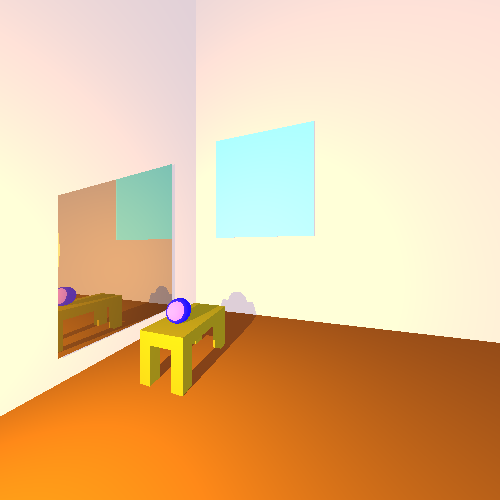
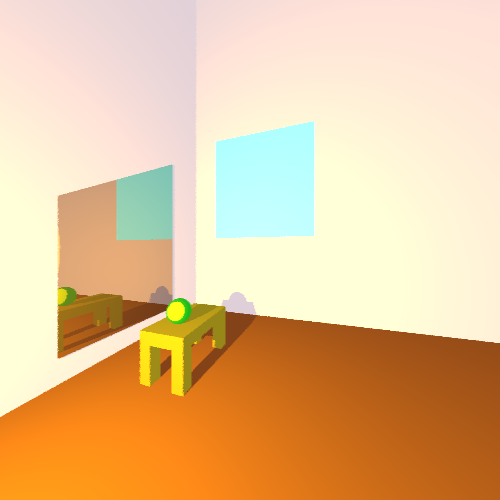
finish anti aliasyng

diff --git a/src/renderer/Camera.java b/src/renderer/Camera.java
@@ -218,13 +218,18 @@ public class Camera {
         int nY = imageWriter.getNy();
         for (int i = 0; i < nY; i++) {
             for (int j = 0; j < nX; j++) {
-               imageWriter.writePixel(j,i,this.castRay(nX, nY, i, j));
-                constructRays(nX, nY, i, j);
+               imageWriter.writePixel(j,i,this.castRaySelector(nX, nY, i, j));
             }
         }
         return this;
     }
 
+    private Color castRaySelector(int nX, int nY, int i, int j){
+        if(amountRays==1)
+            return castRay(nX, nY, i, j);
+        //amountRays is bigger than 1
+        return castRays(nX,nY,i,j);
+    }
     /**
      * Casts a ray for the specified pixel and traces it to determine the pixel color.
      *
@@ -235,9 +240,20 @@ public class Camera {
      */
     private Color castRay(int nX, int nY, int i, int j) {
         Ray ray = constructRay(nX, nY, j, i);
-        Color pixelColor = rayTracer.traceRay(ray);
-        return pixelColor;
-        //imageWriter.writePixel(j, i, pixelColor);
+        return rayTracer.traceRay(ray);
+    }
+
+    /**
+     * Casts rays for the specified pixel and traces it to determine the pixel color by amountRays*amountRays.
+     *
+     * @param nX the number of pixels along the x-axis
+     * @param nY the number of pixels along the y-axis
+     * @param i  the y-coordinate of the pixel
+     * @param j  the x-coordinate of the pixel
+     */
+    private Color castRays(int nX, int nY, int i, int j) {
+        List<Ray> rays = constructRays(nX, nY, j, i);
+        return rayTracer.traceRays(rays);
     }
 
     /**
@@ -278,7 +294,7 @@ public class Camera {
         Point pIJCenter = p0.add(Vto.scale(distance)); // = P center
         double rY = this.height / nY; //rY is the size of the vertical rib of the pixel (without the horizontal rib)
         double rX = this.width / nX; //rX is the size of the horizontal rib of the pixel (without teh vertical rib)
-        double xJ = (j - (double)(nX - 1)/2) * rX; //xJ is the horizontal distance of our pixel from the central pixel (in pixels)
+        double xJ = -(j - (double)(nX - 1)/2) * rX; //xJ is the horizontal distance of our pixel from the central pixel (in pixels)
         double yI = -(i - (double)(nY - 1)/2) * rY; //yI is the vertical distance of our pixel from the central pixel (in pixels)
         if (xJ != 0) pIJCenter = pIJCenter.add(Vright.scale(xJ));
         if (yI != 0) pIJCenter = pIJCenter.add(Vup.scale(yI));
@@ -318,38 +334,6 @@ public class Camera {
         return avarageColor;
     }
 
-//    private Color antiAliasingRandom(int nX, int nY, int j, int i) {
-//        Color sumColors = new Color(0,0,0);
-//        Vector vectorToThePixel;
-//        Ray rayThroughPixel;
-//        //get the center of the pixel
-//        Point pIJCenter = getCenterPixel( nX,  nY,  j,  i);
-//
-//        // make the top-left corner of the pixel
-//        Point pIJ;
-//        double rX = this.width / nX; //rX is the size of the horizontal rib of the pixel (without teh vertical rib)
-//        double interval = rX/amountRays;
-//
-//        for (double z = 0; z < amountRays; z++)
-//        {
-//            // move pIJ each iteration to the left of the current row
-//            // (the pixel is divided to grid of rows and columns
-//            // [interval times rows and interval times columns])
-//            if(!isZero(rX/2 - (interval)*z))
-//                pIJ = pIJCenter.add(Vup.scale(rX/2 - (interval)*z));
-//            else pIJ = pIJCenter;
-//            pIJ = pIJ.add(Vright.scale(-rX/2));
-//            for (int q = 0; q < amountRays; q++){
-//                pIJ = pIJ.add(Vright.scale(interval*rX));
-//                vectorToThePixel = pIJ.subtract(this.p0);
-//                rayThroughPixel = new Ray(this.p0, vectorToThePixel);
-//                sumColors = sumColors.add(rayTracer.traceRay(rayThroughPixel));
-//            }
-//        }
-//        // calculate the average color (there are eyeRaysAmount^2 sample rays);
-//        Color avarageColor = sumColors.scale((double) 1/(amountRays*amountRays));
-//        return avarageColor;
-//    }
 
 
     public List<Ray> constructRays(int nX, int nY, int j, int i) {
@@ -362,7 +346,7 @@ public class Camera {
         for (int rowNumber = 0; rowNumber < amountRays; rowNumber++) {
             for (int colNumber = 0; colNumber < amountRays; colNumber++) {
                 y = -(rowNumber - (amountRays - 1d) / 2) * rY;
-                x = (colNumber - (amountRays - 1d) / 2) * rX;
+               x = (colNumber - (amountRays - 1d) / 2) * rX;
                 Point pIJ = centralPixel;
                 if (y != 0) pIJ = pIJ.add(Vup.scale(y));
                 if (x != 0) pIJ = pIJ.add(Vright.scale(x));
@@ -373,20 +357,6 @@ public class Camera {
         return rays;
     }
 
-
-    /**
-     * function that gets the color of the pixel and renders in to image
-     */
-//    public Camera renderImage() {
-//        if (p0 == null || Vto == null || Vup == null || Vright == null || distance == 0 || height == 0 || width == 0 || imageWriter == null || rayTracer == null)
-//            throw new MissingResourceException("", "", "Camera is not initialized");
-//        int nX = imageWriter.getNx();
-//        int nY = imageWriter.getNy();
-//        for (int i = 0; i < nX; i++)
-//            for (int j = 0; j < nY; j++)
-//                imageWriter.writePixel(j, i, this.castRay(nX, nY, j, i));
-//        return this;
-//    }
 
     public Ray constructRandomRay(int Nx, int Ny, Point Pij, int gridRow, int gridColumn, int amount) {
 

diff --git a/unitTests/renderer/Squared3DTest.java b/unitTests/renderer/Squared3DTest.java
@@ -23,7 +23,7 @@ class  Squared3DTest {
     @Test
     public void Squared3DTest1() {
         Camera camera = new Camera(new Point(-50, -50, 50), new Vector(1, 0.3, 0), new Vector(0,0,1 )) //
-                .setVPSize(150, 150).setVPDistance(50);
+                .setVPSize(150, 150).setVPDistance(50).setAmountRays(2);
         scene.setAmbientLight(new AmbientLight(new Color(300, 150, 240), new Double3(0.1)));
 //        Camera camera1= new Camera(new Point(1000, 800, 950), new Vector(0, -0.432, -0.901), new Vector(0, 0.901, -0.432)) //
 //                .setVPSize(150, 150).setVPDistance(1000);
@@ -65,12 +65,15 @@ class  Squared3DTest {
             //The wall on the right
             scene.geometries.add(new Plane(new Point(40,40,0), new Point(0,40,0), new Point(40,40,40))
                     .setEmission(new Color(192,192,192)).setMaterial(new Material().setKd(0.6).setShininess(10)));
+            //The morrow
             scene.geometries.add(new Polygon(new Point(-10, 39, 10), new Point(50, 39, 10),new Point(50, 39, 110), new Point(-10, 39, 70)).
                     setMaterial(new Material().setkR(0.5).setKd(0.5).setKs(0.3)));
+            //The window
             scene.geometries.add(new Polygon(new Point(79.5, 20, 60), new Point(79.5,-60 , 60),new Point(79.5, -60, 140), new Point(79.5, 20, 140)).setEmission(new Color(51,255,255))
                     .setMaterial(new Material().setkT(0.3).setKd(0.3)));
 //            Plane sky = (Plane) new Plane(new Point(-5000, -500, 190), new Vector(0, 0, -1))
 //                    .setEmission(new Color(201, 226, 255)).setMaterial(new Material().setnShininess(10).setkS(0.2));
+            //The water mellon
             scene.geometries.add(new Sphere(5, new Point(10, 0, 25)).setEmission(new Color(0, 153, 0)).setMaterial(new Material().setkT(0.1).setKd(0.2).setKs(0.6)));
 
 
